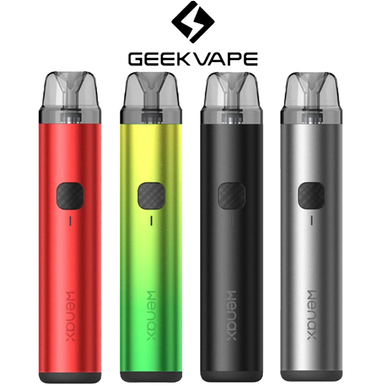
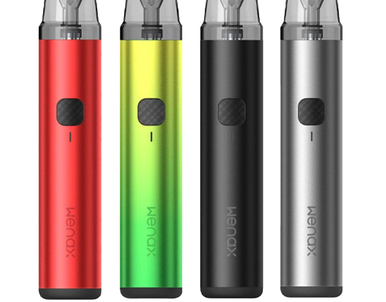
fix: crop GEEK VAPE brand band off Hero 2 + swap watermarked XROS 4
- geekvape-hero-2-new.png: trim the top 22% of the image so the
  GEEK VAPE logo + wordmark above the device row disappears (Pillow
  crop, lossless)
- vaporesso-xros-4: drop the shopvapour.co.uk variant — it had a big
  diagonal "SHOPVAPOUR" watermark across the whole device. Point at
  the whitevapenew1 KeyCDN copy instead, which carries no watermark.
  Delete the local copy so the next localize workflow fetches the
  clean one

https://claude.ai/code/session_01MqrbkRacNkUA3ZpS7p9f7W

diff --git a/lib/product-images.ts b/lib/product-images.ts
@@ -49,7 +49,7 @@ export const PRODUCT_IMAGES: Record<string, string[]> = {
     "/products/vaporesso-xros-3-mini.png"
   ],
   "vaporesso-xros-4": [
-    "/products/vaporesso-xros-4.jpg"
+    "https://whitevapenew1-20b04.kxcdn.com/wp-content/uploads/2024/05/2033-Vaporesso-XROS-4-Pod-Kit-Cover.jpg"
   ],
   "vaporesso-xros-4-mini": [
     "/products/vaporesso-xros-4-mini.png"
